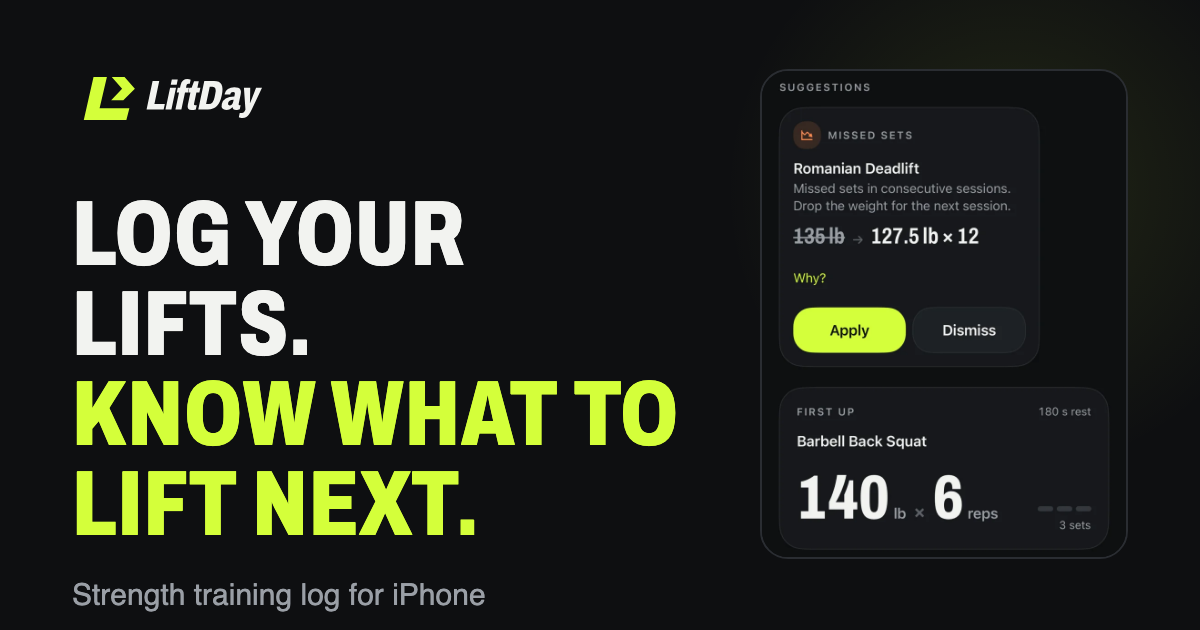
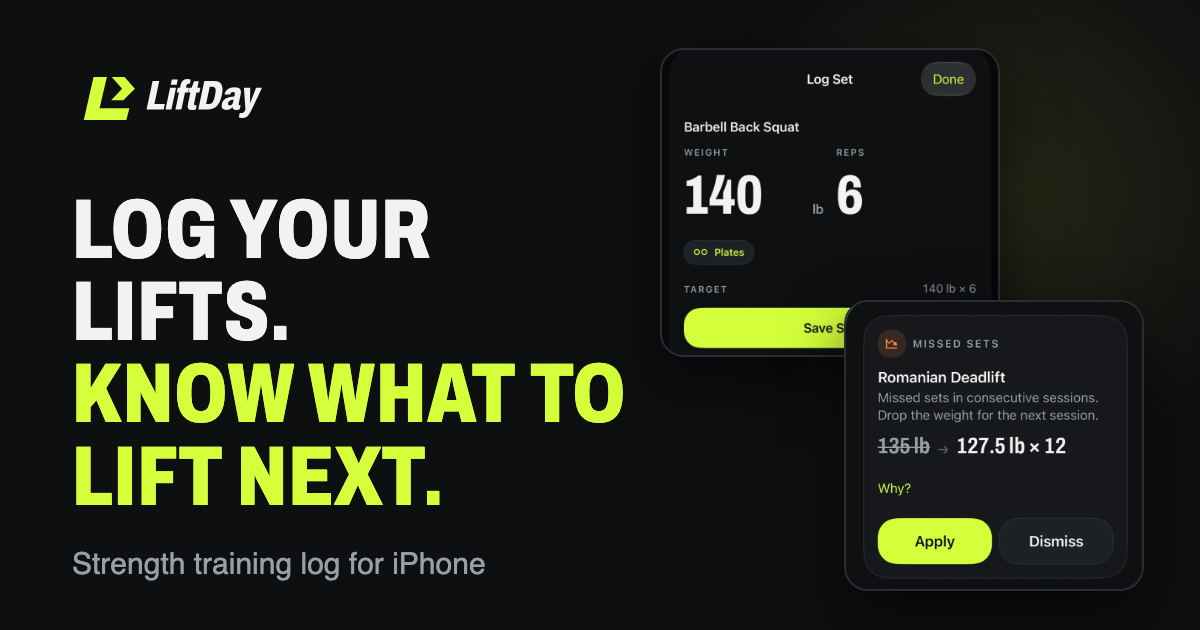
Show logging and the next target as two app screens
The hero now shows two numbered steps from a fresh simulator capture:
the Log Set sheet ("Log the set") and a suggestion card ("Know what's
next"), side by side from 640px and stacked on phones. The headline
puts each sentence on its own line. The link preview image shows the
same two screens.

diff --git a/index.html b/index.html
@@ -17,7 +17,7 @@
   <meta property="og:image" content="https://useliftday.com/images/social-preview.png">
   <meta property="og:image:width" content="1200">
   <meta property="og:image:height" content="630">
-  <meta property="og:image:alt" content="LiftDay: Log your lifts. Know what to lift next. Beside the headline, the app suggests 127.5 lb for 12 reps on Romanian deadlifts and a squat target of 140 lb for 6.">
+  <meta property="og:image:alt" content="LiftDay: Log your lifts. Know what to lift next. Beside the headline, two app screens: logging a 140 lb squat set for 6 reps, and a suggestion to drop Romanian deadlifts to 127.5 lb.">
   <meta name="twitter:card" content="summary_large_image">
   <link rel="icon" href="/brand/liftmark-primary.svg" type="image/svg+xml">
   <link rel="icon" href="/brand/favicon-32.png" sizes="32x32" type="image/png">
@@ -32,16 +32,25 @@
 
     <main>
       <section class="hero">
-        <div class="hero-copy">
-          <h1>Log your lifts. <span class="accent">Know what to lift next.</span></h1>
-          <p class="lede">A strength training log for iPhone. Log each set, and LiftDay uses what you actually lifted to set your next weight and rep targets.</p>
-          <p class="status">Coming soon to the App Store</p>
-        </div>
-        <figure class="hero-shot">
-          <img src="/images/today-suggestion.webp" width="800" height="1068"
-               alt="LiftDay's Today screen. A Missed Sets card for Romanian Deadlift says sets were missed in consecutive sessions and suggests dropping from 135 lb to 127.5 lb for 12 reps, with Why?, Apply and Dismiss buttons. Below it, First Up shows Barbell Back Squat at 140 lb for 6 reps over 3 sets.">
-          <figcaption>Reps fell short on Romanian deadlifts two sessions running, so LiftDay suggests a lighter 127.5&nbsp;lb. Every squat set hit 8 reps at 135&nbsp;lb, so the next target moves up to 140&nbsp;lb. Real app screen, sample data.</figcaption>
+        <h1>Log your lifts. <span class="accent">Know what to lift next.</span></h1>
+        <p class="lede">A strength training log for iPhone. Log each set, and LiftDay uses what you actually lifted to set your next weight and rep targets.</p>
+        <p class="status">Coming soon to the App Store</p>
+      </section>
+
+      <section class="steps" aria-label="How LiftDay works">
+        <figure class="step">
+          <p class="step-label"><span>1</span> Log the set</p>
+          <img src="/images/log-set.webp" width="800" height="726"
+               alt="LiftDay's Log Set sheet for Barbell Back Squat: weight 140 lb and 6 reps in large numerals, a Plates button, the target of 140 lb for 6 reps, and a Save Set button.">
+          <figcaption>Your target is filled in. Change the numbers if the set went differently, then save.</figcaption>
         </figure>
+        <figure class="step">
+          <p class="step-label"><span>2</span> Know what's next</p>
+          <img src="/images/suggestion.webp" width="800" height="777"
+               alt="A LiftDay suggestion card for Romanian Deadlift: missed sets in consecutive sessions, so drop the weight from 135 lb to 127.5 lb for 12 reps, with Why?, Apply and Dismiss buttons.">
+          <figcaption>Hit your reps and the next target goes up. Miss them two sessions running, and LiftDay suggests a lighter weight and shows why.</figcaption>
+        </figure>
+        <p class="steps-note">Real app screens, sample data.</p>
       </section>
 
       <ul class="features">

diff --git a/style.css b/style.css
@@ -82,58 +82,71 @@ li { margin-bottom: 0.35em; }
   vertical-align: 1px;
 }
 
-/* Home hero: copy, then one real app screenshot. Side by side on wide screens. */
+/* Home: hero copy, then two real app screens as numbered steps
+   (side by side from 640px, stacked on phones). */
 .wrap-wide { max-width: 960px; }
 .wrap-wide main > * { max-width: 680px; }
+.wrap-wide main > .steps,
 .wrap-wide main > .hero { max-width: none; }
+.hero p { max-width: 680px; }
 
-.hero {
+.hero { margin-bottom: 40px; }
+.hero h1 .accent { display: block; }
+
+.steps {
   display: grid;
   gap: 32px;
   margin-bottom: 48px;
 }
 
-.hero-shot { margin: 0; max-width: 360px; }
-.hero-shot img {
+.step { margin: 0; max-width: 420px; }
+.step img {
   display: block;
   width: 100%;
   height: auto;
   border: 1px solid var(--separator);
   border-radius: 20px;
 }
-.hero-shot figcaption {
+.step figcaption {
   margin-top: 12px;
   color: var(--text-secondary);
-  font-size: 0.9rem;
+  font-size: 0.95rem;
   line-height: 1.45;
 }
 
-@media (min-width: 820px) {
-  .hero {
-    grid-template-columns: minmax(0, 1fr) 340px;
-    gap: 56px;
-    align-items: center;
-  }
+.step-label {
+  margin: 0 0 12px;
+  font-family: "Archivo Condensed", "Arial Narrow", sans-serif;
+  font-weight: 800;
+  text-transform: uppercase;
+  letter-spacing: 0.02em;
+  font-size: 1.35rem;
+  line-height: 1;
+}
+.step-label span {
+  display: inline-grid;
+  place-items: center;
+  width: 1.5em;
+  height: 1.5em;
+  margin-right: 6px;
+  border-radius: 50%;
+  background: var(--lime);
+  color: var(--carbon);
+  font-size: 0.8em;
+  vertical-align: 0.05em;
 }
 
-.features {
-  list-style: none;
-  padding: 0;
-  margin: 0 0 1em;
-  display: grid;
-  gap: 12px;
-}
-
-.features li {
+.steps-note {
   margin: 0;
-  padding: 18px 20px;
-  background: var(--surface);
-  border: 1px solid var(--separator);
-  border-radius: 14px;
+  color: var(--text-secondary);
+  font-size: 0.85rem;
 }
 
-.features strong { display: block; margin-bottom: 2px; }
-.features span { color: var(--text-secondary); }
+@media (min-width: 640px) {
+  .steps { grid-template-columns: 1fr 1fr; gap: 24px 40px; }
+  .step { max-width: none; }
+  .steps-note { grid-column: 1 / -1; }
+}
 
 /* Privacy policy */
 .policy h1 { font-size: clamp(2.2rem, 7vw, 3.2rem); }
